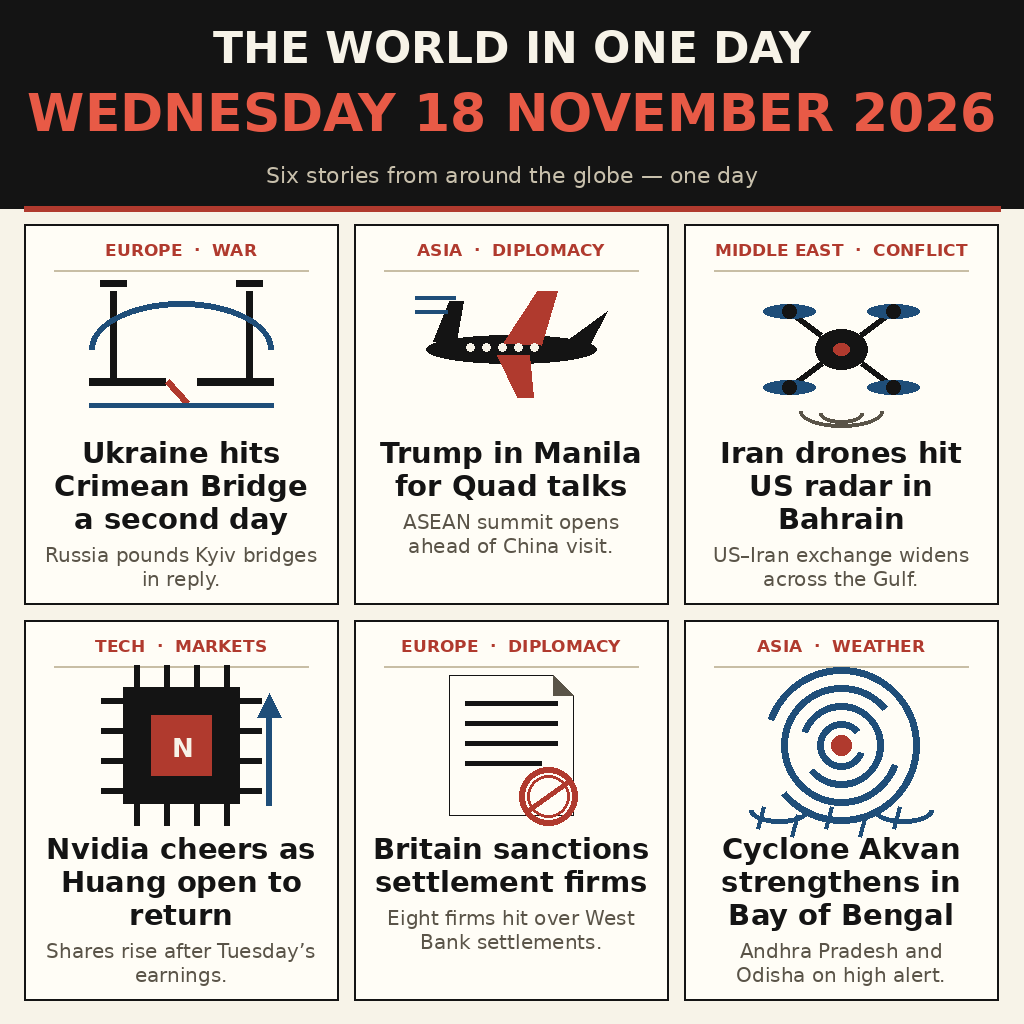
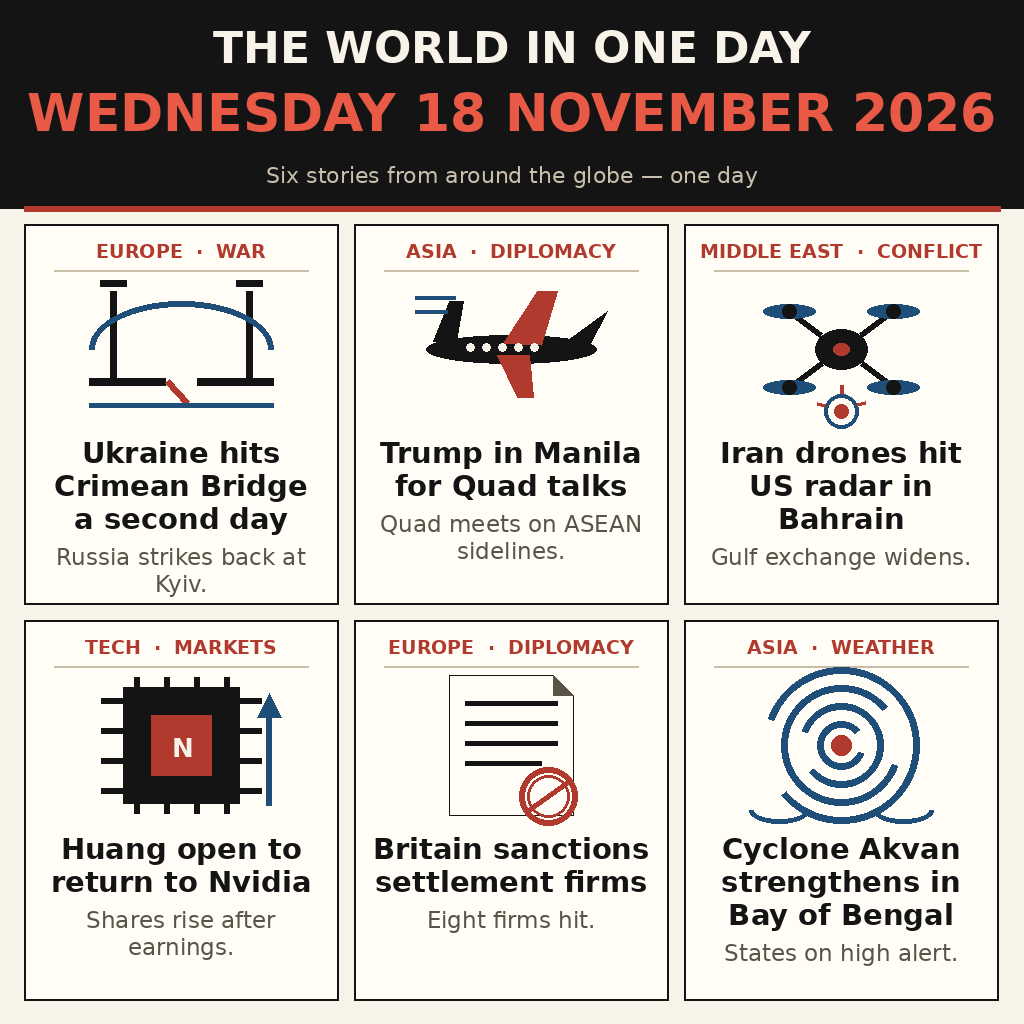
QA fixes: larger kickers/subs, clearer Nvidia + Trump lines, radar target, chip pins, cyclone base

diff --git a/make_image.py b/make_image.py
@@ -99,19 +99,21 @@ def icon_drone(d, cx, cy):
         d.line([(cx + sx * 20, cy + sy * 14), (ax, ay)], fill=INK, width=6)
         d.ellipse([ax - 26, ay - 7, ax + 26, ay + 7], fill=BLUE)
         d.ellipse([ax - 7, ay - 7, ax + 7, ay + 7], fill=INK)
-    # signal rings below the drone
-    d.arc([cx - 42, cy + 46, cx + 42, cy + 78], start=0, end=180,
-          fill=GREY, width=4)
-    d.arc([cx - 22, cy + 54, cx + 22, cy + 74], start=0, end=180,
-          fill=GREY, width=4)
+    # radar target below the drone, with an impact mark
+    tx, ty = cx, cy + 62
+    d.ellipse([tx - 17, ty - 17, tx + 17, ty + 17], outline=BLUE, width=4)
+    d.ellipse([tx - 7, ty - 7, tx + 7, ty + 7], fill=RED)
+    for dx, dy in ((-24, -8), (24, -8), (0, -26)):
+        d.line([(tx + dx, ty + dy), (tx + dx * 2 // 3, ty + dy * 2 // 3)],
+               fill=RED, width=4)
 
 
 def icon_chip(d, cx, cy):
     # Processor with pins and a red core marked N.
     for i in range(4):
         x = cx - 45 + i * 30
-        d.line([(x, cy - 80), (x, cy - 58)], fill=INK, width=6)
-        d.line([(x, cy + 58), (x, cy + 80)], fill=INK, width=6)
+        d.line([(x, cy - 68), (x, cy - 58)], fill=INK, width=6)
+        d.line([(x, cy + 58), (x, cy + 68)], fill=INK, width=6)
         y = cy - 45 + i * 30
         d.line([(cx - 80, y), (cx - 58, y)], fill=INK, width=6)
         d.line([(cx + 58, y), (cx + 80, y)], fill=INK, width=6)
@@ -146,9 +148,6 @@ def icon_cyclone(d, cx, cy):
         d.arc([cx - r, cy - r, cx + r, cy + r], start=start,
               end=start + 300, fill=BLUE, width=7)
     d.ellipse([cx - 10, cy - 10, cx + 10, cy + 10], fill=RED)
-    for i, x in enumerate((-78, -44, -10, 24, 58)):
-        y = cy + 62 + (i % 2) * 8
-        d.line([(cx + x, y), (cx + x - 6, y + 22)], fill=BLUE, width=4)
     d.arc([cx - 92, cy + 52, cx - 32, cy + 78], start=0, end=180,
           fill=BLUE, width=5)
     d.arc([cx + 32, cy + 52, cx + 92, cy + 78], start=0, end=180,
@@ -160,22 +159,22 @@ def icon_cyclone(d, cx, cy):
 STORIES = [
     ("EUROPE  ·  WAR", icon_bridge,
      "Ukraine hits Crimean Bridge a second day",
-     "Russia pounds Kyiv bridges in reply."),
+     "Russia strikes back at Kyiv."),
     ("ASIA  ·  DIPLOMACY", icon_plane,
      "Trump in Manila for Quad talks",
-     "ASEAN summit opens ahead of China visit."),
+     "Quad meets on ASEAN sidelines."),
     ("MIDDLE EAST  ·  CONFLICT", icon_drone,
      "Iran drones hit US radar in Bahrain",
-     "US\u2013Iran exchange widens across the Gulf."),
+     "Gulf exchange widens."),
     ("TECH  ·  MARKETS", icon_chip,
-     "Nvidia cheers as Huang open to return",
-     "Shares rise after Tuesday\u2019s earnings."),
+     "Huang open to return to Nvidia",
+     "Shares rise after earnings."),
     ("EUROPE  ·  DIPLOMACY", icon_document,
      "Britain sanctions settlement firms",
-     "Eight firms hit over West Bank settlements."),
+     "Eight firms hit."),
     ("ASIA  ·  WEATHER", icon_cyclone,
      "Cyclone Akvan strengthens in Bay of Bengal",
-     "Andhra Pradesh and Odisha on high alert."),
+     "States on high alert."),
 ]
 
 
@@ -205,9 +204,9 @@ def main():
     x0, y0, gap = 24, 224, 16
     pw = (W - 2 * x0 - 2 * gap) // 3          # 314
     ph = (H - y0 - 24 - gap) // 2             # 380
-    tag_f = fnt(BOLD, 17)
+    tag_f = fnt(BOLD, 19)
     head_f = fnt(BOLD, 29)
-    sub_f = fnt(REG, 20)
+    sub_f = fnt(REG, 23)
 
     for i, (tag, icon, headline, sublabel) in enumerate(STORIES):
         r, c = divmod(i, 3)

diff --git a/README.md b/README.md
@@ -8,8 +8,8 @@ A newspaper front-page infographic that sums up Wednesday 18 November 2026
 in one image: a bold masthead naming the day, then six panels covering the
 day's most consequential stories across regions and fields — Ukraine striking
 the Crimean Bridge for a second day running, Trump landing in Manila for the
-ASEAN / Quad summit, Iranian drones hitting a US radar site in Bahrain,
-Nvidia shares cheering as Jensen Huang is open to returning, Britain
+Quad talks on the ASEAN summit's sidelines, Iranian drones hitting a US radar
+site in Bahrain, Jensen Huang open to returning to Nvidia, Britain
 sanctioning firms over West Bank settlements, and Cyclone Akvan strengthening
 over the Bay of Bengal. Each panel pairs a simple drawn pictogram with a
 short headline and one factual sublabel, so the whole day reads clearly from
